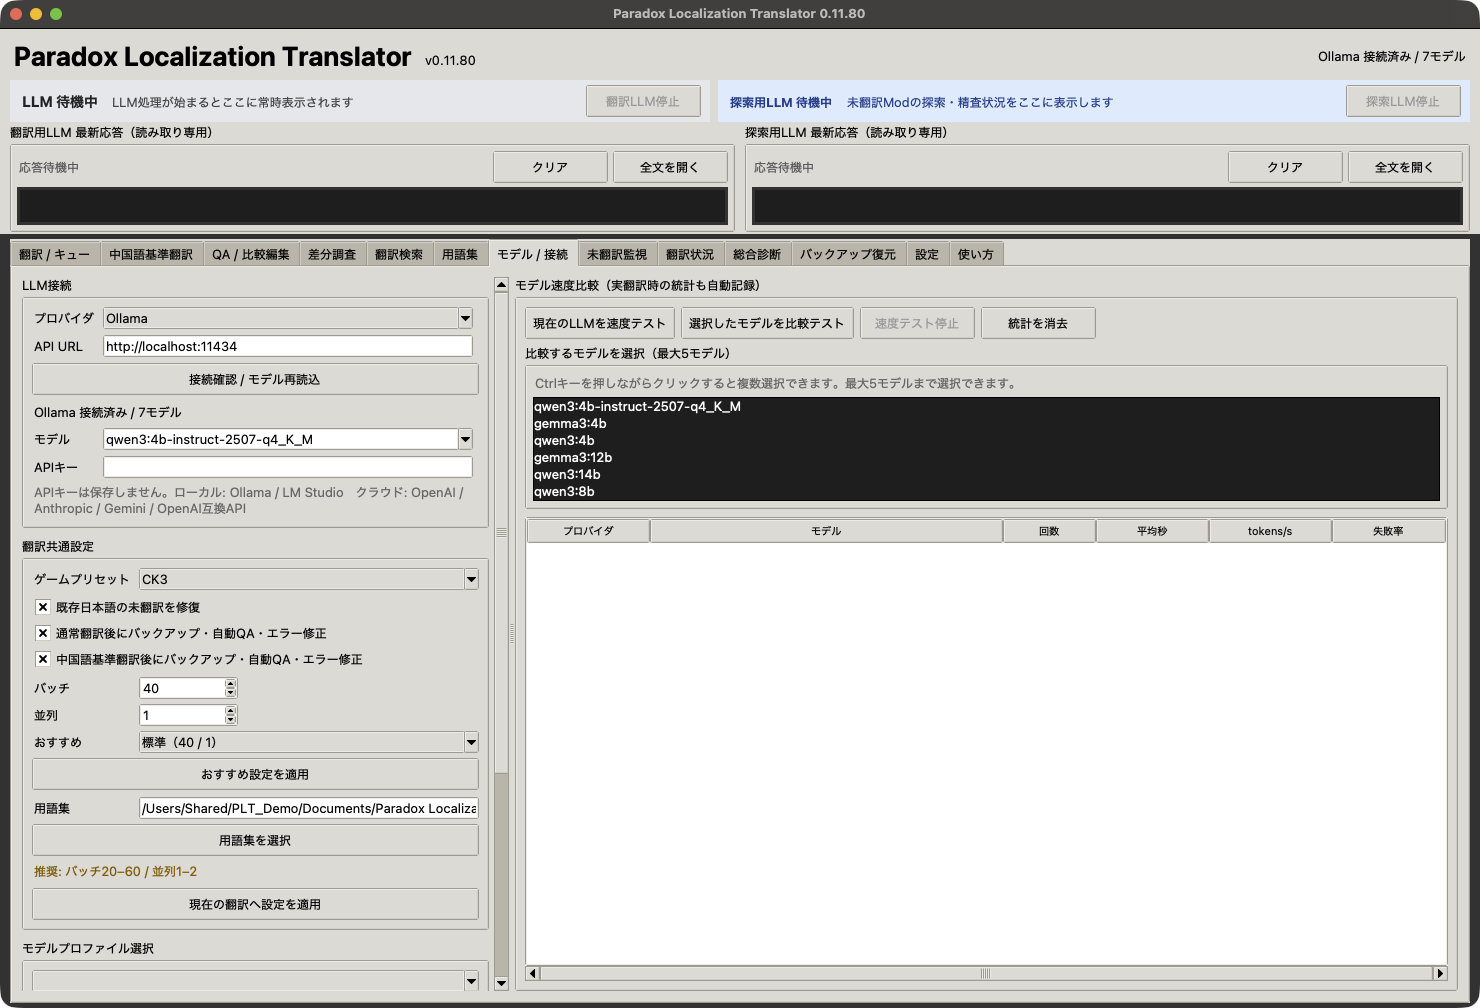
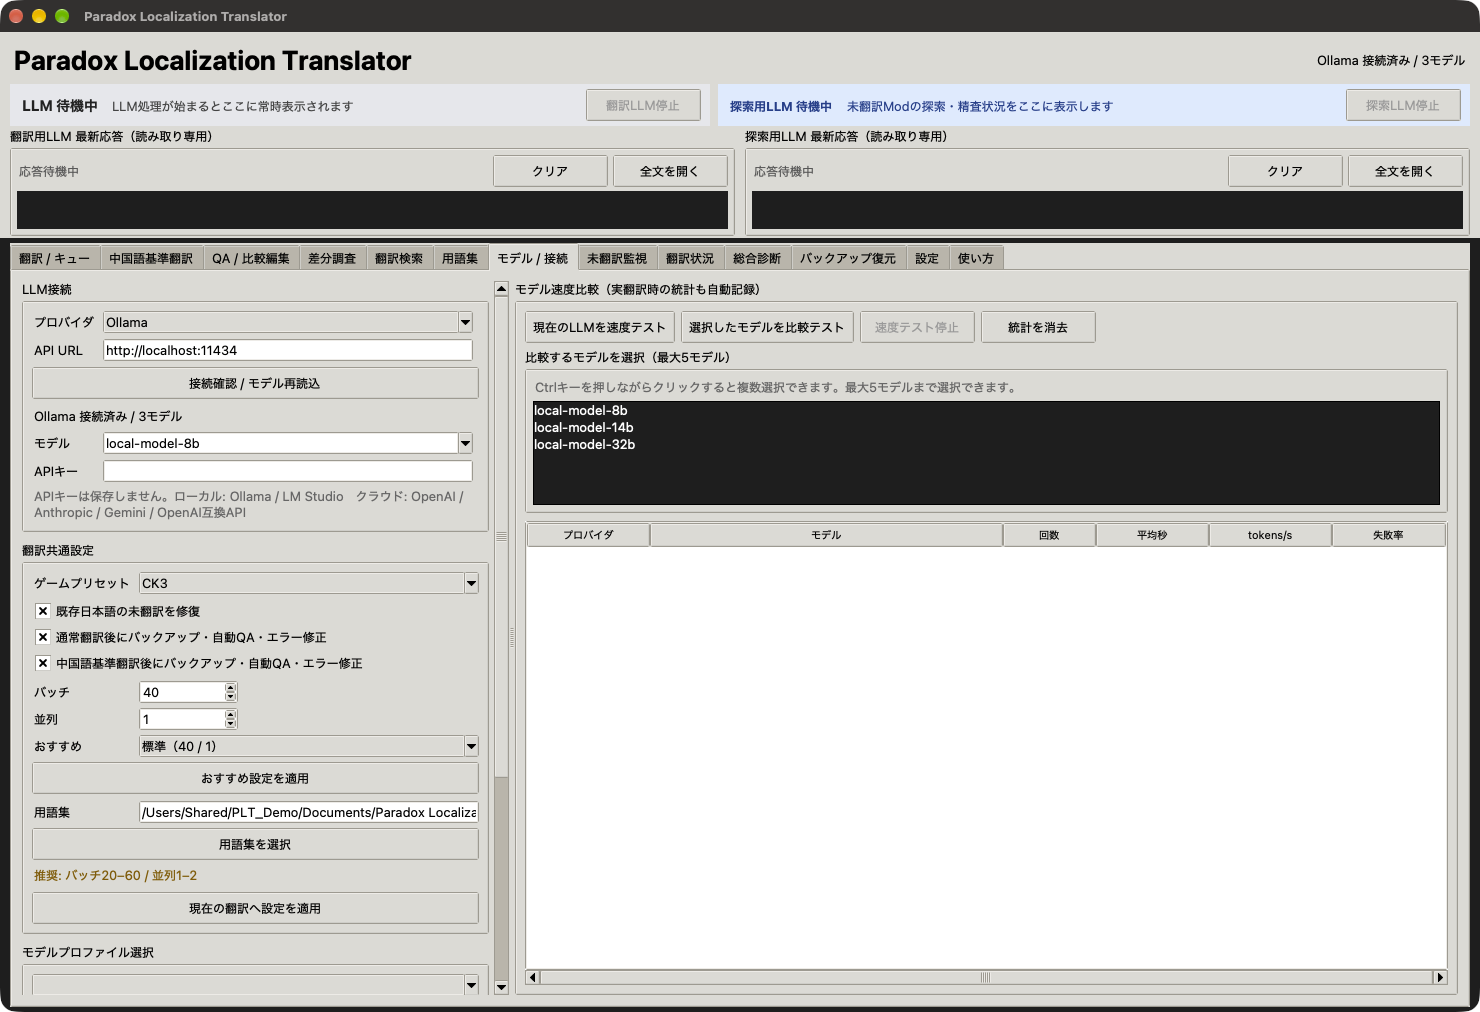
Retake the screenshots with v0.12.0; fix the demo line translations
- Screenshots from v0.12.0 in the isolated sample setup, with drag and drop
  available (.venv-build), made-up model names, and no version number.
- Demo line: German Kampfgeschick, Spanish Destreza, Korean 기량,
  Polish Waleczności, matching the installed CK3 skill names (GPT review).
- shoot.py: pick the app's main window even when it is off screen, take
  the queue picture last, hide version labels, fake model list.

diff --git a/index.html b/index.html
@@ -85,7 +85,7 @@
 <section id="shots" class="band">
   <h2>Screenshots</h2>
   <p class="intro">The app&#x27;s interface is currently in Japanese; an English UI is planned.</p>
-  <div class="shots"><figure class="shot"><button type="button" class="zoom" data-full="assets/shots/ja/translate.png"><img src="assets/shots/ja/translate.png" alt="Translation queue and progress" width="1480" height="1008" loading="lazy"></button><figcaption>Translation queue and progress</figcaption></figure><figure class="shot"><button type="button" class="zoom" data-full="assets/shots/ja/qa.png"><img src="assets/shots/ja/qa.png" alt="Side-by-side QA and editing" width="1480" height="1008" loading="lazy"></button><figcaption>Side-by-side QA and editing</figcaption></figure><figure class="shot"><button type="button" class="zoom" data-full="assets/shots/ja/survey.png"><img src="assets/shots/ja/survey.png" alt="Mod translation status survey (Japanese only)" width="1480" height="1008" loading="lazy"></button><figcaption>Mod translation status survey (Japanese only)</figcaption></figure><figure class="shot"><button type="button" class="zoom" data-full="assets/shots/ja/model.png"><img src="assets/shots/ja/model.png" alt="Model and connection settings" width="1480" height="1008" loading="lazy"></button><figcaption>Model and connection settings</figcaption></figure></div>
+  <div class="shots"><figure class="shot"><button type="button" class="zoom" data-full="assets/shots/ja/translate.png"><img src="assets/shots/ja/translate.png" alt="Translation queue and progress" width="1480" height="1012" loading="lazy"></button><figcaption>Translation queue and progress</figcaption></figure><figure class="shot"><button type="button" class="zoom" data-full="assets/shots/ja/qa.png"><img src="assets/shots/ja/qa.png" alt="Side-by-side QA and editing" width="1480" height="1012" loading="lazy"></button><figcaption>Side-by-side QA and editing</figcaption></figure><figure class="shot"><button type="button" class="zoom" data-full="assets/shots/ja/survey.png"><img src="assets/shots/ja/survey.png" alt="Mod translation status survey (Japanese only)" width="1480" height="1012" loading="lazy"></button><figcaption>Mod translation status survey (Japanese only)</figcaption></figure><figure class="shot"><button type="button" class="zoom" data-full="assets/shots/ja/model.png"><img src="assets/shots/ja/model.png" alt="Model and connection settings" width="1480" height="1012" loading="lazy"></button><figcaption>Model and connection settings</figcaption></figure></div>
 </section>
 
 <section id="games" class="band">
@@ -133,7 +133,7 @@
 
 <div class="lightbox" id="lightbox" hidden><img alt=""></div>
 
-<script>window.PLT = {"here": "en", "langs": [{"tag": "en", "href": "", "text": "This page is also available in English."}, {"tag": "ja", "href": "ja/", "text": "このページは日本語でも読めます。"}], "demo": [["l_japanese", "<span class=\"tok\">[ROOT.Char.GetFirstName]<\/span>は何も恐れない。<span class=\"tok\">§Y<\/span>武勇 +2<span class=\"tok\">§!<\/span>"], ["l_french", "<span class=\"tok\">[ROOT.Char.GetFirstName]<\/span> ne craint rien. <span class=\"tok\">§Y<\/span>+2 en Prouesse<span class=\"tok\">§!<\/span>"], ["l_german", "<span class=\"tok\">[ROOT.Char.GetFirstName]<\/span> fürchtet nichts. <span class=\"tok\">§Y<\/span>+2 Kampfkraft<span class=\"tok\">§!<\/span>"], ["l_spanish", "<span class=\"tok\">[ROOT.Char.GetFirstName]<\/span> no teme a nada. <span class=\"tok\">§Y<\/span>+2 de Proeza<span class=\"tok\">§!<\/span>"], ["l_korean", "<span class=\"tok\">[ROOT.Char.GetFirstName]<\/span>은(는) 아무것도 두려워하지 않습니다. <span class=\"tok\">§Y<\/span>무용 +2<span class=\"tok\">§!<\/span>"], ["l_polish", "<span class=\"tok\">[ROOT.Char.GetFirstName]<\/span> niczego się nie boi. <span class=\"tok\">§Y<\/span>+2 do Sprawności<span class=\"tok\">§!<\/span>"], ["l_braz_por", "<span class=\"tok\">[ROOT.Char.GetFirstName]<\/span> não teme nada. <span class=\"tok\">§Y<\/span>+2 de Destreza<span class=\"tok\">§!<\/span>"], ["l_russian", "<span class=\"tok\">[ROOT.Char.GetFirstName]<\/span> ничего не боится. <span class=\"tok\">§Y<\/span>+2 к доблести<span class=\"tok\">§!<\/span>"], ["l_simp_chinese", "<span class=\"tok\">[ROOT.Char.GetFirstName]<\/span>无所畏惧。<span class=\"tok\">§Y<\/span>勇武 +2<span class=\"tok\">§!<\/span>"], ["l_turkish", "<span class=\"tok\">[ROOT.Char.GetFirstName]<\/span> hiçbir şeyden korkmaz. <span class=\"tok\">§Y<\/span>+2 Yiğitlik<span class=\"tok\">§!<\/span>"]]};</script>
+<script>window.PLT = {"here": "en", "langs": [{"tag": "en", "href": "", "text": "This page is also available in English."}, {"tag": "ja", "href": "ja/", "text": "このページは日本語でも読めます。"}], "demo": [["l_japanese", "<span class=\"tok\">[ROOT.Char.GetFirstName]<\/span>は何も恐れない。<span class=\"tok\">§Y<\/span>武勇 +2<span class=\"tok\">§!<\/span>"], ["l_french", "<span class=\"tok\">[ROOT.Char.GetFirstName]<\/span> ne craint rien. <span class=\"tok\">§Y<\/span>+2 en Prouesse<span class=\"tok\">§!<\/span>"], ["l_german", "<span class=\"tok\">[ROOT.Char.GetFirstName]<\/span> fürchtet nichts. <span class=\"tok\">§Y<\/span>+2 Kampfgeschick<span class=\"tok\">§!<\/span>"], ["l_spanish", "<span class=\"tok\">[ROOT.Char.GetFirstName]<\/span> no teme a nada. <span class=\"tok\">§Y<\/span>+2 de Destreza<span class=\"tok\">§!<\/span>"], ["l_korean", "<span class=\"tok\">[ROOT.Char.GetFirstName]<\/span>은(는) 아무것도 두려워하지 않는다. <span class=\"tok\">§Y<\/span>기량 +2<span class=\"tok\">§!<\/span>"], ["l_polish", "<span class=\"tok\">[ROOT.Char.GetFirstName]<\/span> niczego się nie boi. <span class=\"tok\">§Y<\/span>+2 do Waleczności<span class=\"tok\">§!<\/span>"], ["l_braz_por", "<span class=\"tok\">[ROOT.Char.GetFirstName]<\/span> não teme nada. <span class=\"tok\">§Y<\/span>+2 de Destreza<span class=\"tok\">§!<\/span>"], ["l_russian", "<span class=\"tok\">[ROOT.Char.GetFirstName]<\/span> ничего не боится. <span class=\"tok\">§Y<\/span>+2 к доблести<span class=\"tok\">§!<\/span>"], ["l_simp_chinese", "<span class=\"tok\">[ROOT.Char.GetFirstName]<\/span>无所畏惧。<span class=\"tok\">§Y<\/span>勇武 +2<span class=\"tok\">§!<\/span>"], ["l_turkish", "<span class=\"tok\">[ROOT.Char.GetFirstName]<\/span> hiçbir şeyden korkmaz. <span class=\"tok\">§Y<\/span>+2 Yiğitlik<span class=\"tok\">§!<\/span>"]]};</script>
 <script src="assets/site.js" defer></script>
 </body>
 </html>

diff --git a/ja/index.html b/ja/index.html
@@ -85,7 +85,7 @@
 <section id="shots" class="band">
   <h2>画面</h2>
   
-  <div class="shots"><figure class="shot"><button type="button" class="zoom" data-full="../assets/shots/ja/translate.png"><img src="../assets/shots/ja/translate.png" alt="翻訳の順番待ちと進み具合" width="1480" height="1008" loading="lazy"></button><figcaption>翻訳の順番待ちと進み具合</figcaption></figure><figure class="shot"><button type="button" class="zoom" data-full="../assets/shots/ja/qa.png"><img src="../assets/shots/ja/qa.png" alt="原文と訳文を並べた QA・編集" width="1480" height="1008" loading="lazy"></button><figcaption>原文と訳文を並べた QA・編集</figcaption></figure><figure class="shot"><button type="button" class="zoom" data-full="../assets/shots/ja/survey.png"><img src="../assets/shots/ja/survey.png" alt="Mod の翻訳状況の調査" width="1480" height="1008" loading="lazy"></button><figcaption>Mod の翻訳状況の調査</figcaption></figure><figure class="shot"><button type="button" class="zoom" data-full="../assets/shots/ja/model.png"><img src="../assets/shots/ja/model.png" alt="モデルと接続の設定" width="1480" height="1008" loading="lazy"></button><figcaption>モデルと接続の設定</figcaption></figure></div>
+  <div class="shots"><figure class="shot"><button type="button" class="zoom" data-full="../assets/shots/ja/translate.png"><img src="../assets/shots/ja/translate.png" alt="翻訳の順番待ちと進み具合" width="1480" height="1012" loading="lazy"></button><figcaption>翻訳の順番待ちと進み具合</figcaption></figure><figure class="shot"><button type="button" class="zoom" data-full="../assets/shots/ja/qa.png"><img src="../assets/shots/ja/qa.png" alt="原文と訳文を並べた QA・編集" width="1480" height="1012" loading="lazy"></button><figcaption>原文と訳文を並べた QA・編集</figcaption></figure><figure class="shot"><button type="button" class="zoom" data-full="../assets/shots/ja/survey.png"><img src="../assets/shots/ja/survey.png" alt="Mod の翻訳状況の調査" width="1480" height="1012" loading="lazy"></button><figcaption>Mod の翻訳状況の調査</figcaption></figure><figure class="shot"><button type="button" class="zoom" data-full="../assets/shots/ja/model.png"><img src="../assets/shots/ja/model.png" alt="モデルと接続の設定" width="1480" height="1012" loading="lazy"></button><figcaption>モデルと接続の設定</figcaption></figure></div>
 </section>
 
 <section id="games" class="band">
@@ -133,7 +133,7 @@
 
 <div class="lightbox" id="lightbox" hidden><img alt=""></div>
 
-<script>window.PLT = {"here": "ja", "langs": [{"tag": "en", "href": "../", "text": "This page is also available in English."}, {"tag": "ja", "href": "../ja/", "text": "このページは日本語でも読めます。"}], "demo": [["l_japanese", "<span class=\"tok\">[ROOT.Char.GetFirstName]<\/span>は何も恐れない。<span class=\"tok\">§Y<\/span>武勇 +2<span class=\"tok\">§!<\/span>"], ["l_french", "<span class=\"tok\">[ROOT.Char.GetFirstName]<\/span> ne craint rien. <span class=\"tok\">§Y<\/span>+2 en Prouesse<span class=\"tok\">§!<\/span>"], ["l_german", "<span class=\"tok\">[ROOT.Char.GetFirstName]<\/span> fürchtet nichts. <span class=\"tok\">§Y<\/span>+2 Kampfkraft<span class=\"tok\">§!<\/span>"], ["l_spanish", "<span class=\"tok\">[ROOT.Char.GetFirstName]<\/span> no teme a nada. <span class=\"tok\">§Y<\/span>+2 de Proeza<span class=\"tok\">§!<\/span>"], ["l_korean", "<span class=\"tok\">[ROOT.Char.GetFirstName]<\/span>은(는) 아무것도 두려워하지 않습니다. <span class=\"tok\">§Y<\/span>무용 +2<span class=\"tok\">§!<\/span>"], ["l_polish", "<span class=\"tok\">[ROOT.Char.GetFirstName]<\/span> niczego się nie boi. <span class=\"tok\">§Y<\/span>+2 do Sprawności<span class=\"tok\">§!<\/span>"], ["l_braz_por", "<span class=\"tok\">[ROOT.Char.GetFirstName]<\/span> não teme nada. <span class=\"tok\">§Y<\/span>+2 de Destreza<span class=\"tok\">§!<\/span>"], ["l_russian", "<span class=\"tok\">[ROOT.Char.GetFirstName]<\/span> ничего не боится. <span class=\"tok\">§Y<\/span>+2 к доблести<span class=\"tok\">§!<\/span>"], ["l_simp_chinese", "<span class=\"tok\">[ROOT.Char.GetFirstName]<\/span>无所畏惧。<span class=\"tok\">§Y<\/span>勇武 +2<span class=\"tok\">§!<\/span>"], ["l_turkish", "<span class=\"tok\">[ROOT.Char.GetFirstName]<\/span> hiçbir şeyden korkmaz. <span class=\"tok\">§Y<\/span>+2 Yiğitlik<span class=\"tok\">§!<\/span>"]]};</script>
+<script>window.PLT = {"here": "ja", "langs": [{"tag": "en", "href": "../", "text": "This page is also available in English."}, {"tag": "ja", "href": "../ja/", "text": "このページは日本語でも読めます。"}], "demo": [["l_japanese", "<span class=\"tok\">[ROOT.Char.GetFirstName]<\/span>は何も恐れない。<span class=\"tok\">§Y<\/span>武勇 +2<span class=\"tok\">§!<\/span>"], ["l_french", "<span class=\"tok\">[ROOT.Char.GetFirstName]<\/span> ne craint rien. <span class=\"tok\">§Y<\/span>+2 en Prouesse<span class=\"tok\">§!<\/span>"], ["l_german", "<span class=\"tok\">[ROOT.Char.GetFirstName]<\/span> fürchtet nichts. <span class=\"tok\">§Y<\/span>+2 Kampfgeschick<span class=\"tok\">§!<\/span>"], ["l_spanish", "<span class=\"tok\">[ROOT.Char.GetFirstName]<\/span> no teme a nada. <span class=\"tok\">§Y<\/span>+2 de Destreza<span class=\"tok\">§!<\/span>"], ["l_korean", "<span class=\"tok\">[ROOT.Char.GetFirstName]<\/span>은(는) 아무것도 두려워하지 않는다. <span class=\"tok\">§Y<\/span>기량 +2<span class=\"tok\">§!<\/span>"], ["l_polish", "<span class=\"tok\">[ROOT.Char.GetFirstName]<\/span> niczego się nie boi. <span class=\"tok\">§Y<\/span>+2 do Waleczności<span class=\"tok\">§!<\/span>"], ["l_braz_por", "<span class=\"tok\">[ROOT.Char.GetFirstName]<\/span> não teme nada. <span class=\"tok\">§Y<\/span>+2 de Destreza<span class=\"tok\">§!<\/span>"], ["l_russian", "<span class=\"tok\">[ROOT.Char.GetFirstName]<\/span> ничего не боится. <span class=\"tok\">§Y<\/span>+2 к доблести<span class=\"tok\">§!<\/span>"], ["l_simp_chinese", "<span class=\"tok\">[ROOT.Char.GetFirstName]<\/span>无所畏惧。<span class=\"tok\">§Y<\/span>勇武 +2<span class=\"tok\">§!<\/span>"], ["l_turkish", "<span class=\"tok\">[ROOT.Char.GetFirstName]<\/span> hiçbir şeyden korkmaz. <span class=\"tok\">§Y<\/span>+2 Yiğitlik<span class=\"tok\">§!<\/span>"]]};</script>
 <script src="../assets/site.js" defer></script>
 </body>
 </html>

diff --git a/tools/screenshots/win.swift b/tools/screenshots/win.swift
@@ -1,6 +1,6 @@
 import CoreGraphics
 let pid = Int(CommandLine.arguments[1])!
-let list = CGWindowListCopyWindowInfo([.optionOnScreenOnly], kCGNullWindowID) as! [[String: Any]]
+let list = CGWindowListCopyWindowInfo([.optionAll, .excludeDesktopElements], kCGNullWindowID) as! [[String: Any]]
 for w in list where (w[kCGWindowOwnerPID as String] as? Int) == pid {
   let b = w[kCGWindowBounds as String] as! [String: Any]
   print(w[kCGWindowNumber as String]!, w[kCGWindowLayer as String]!, b["Width"]!, b["Height"]!, w[kCGWindowName as String] ?? "")

diff --git a/tools/screenshots/shoot.py b/tools/screenshots/shoot.py
@@ -3,14 +3,30 @@ src = pathlib.Path(sys.argv[1]); out = pathlib.Path(sys.argv[2]); tools = pathli
 sys.path.insert(0, str(src))
 import translator_core
 translator_core._mounted_volume_roots = lambda *a, **k: []
+# Never show the real local LLM setup: answer every model list with made-up names.
+FAKE_MODELS = ["local-model-8b", "local-model-14b", "local-model-32b"]
+translator_core.list_models = lambda *a, **k: list(FAKE_MODELS)
+translator_core.unusable_model_warning = lambda *a, **k: ""
 import tkinter as tk
 from tkinter import ttk
 _orig_mainloop = tk.Misc.mainloop
 MOD = pathlib.Path.home() / "Documents/Paradox Interactive/Victoria 3/mod/Example Trade Reforms"
 
 def winid():
-    r = subprocess.run([str(tools / "win"), str(os.getpid())], capture_output=True, text=True).stdout.split()
-    return r[0] if r else None
+    # The main window is the one on layer 0; the list can be empty for a moment, so retry.
+    for _ in range(10):
+        rows = subprocess.run([str(tools / "win"), str(os.getpid())], capture_output=True, text=True).stdout.splitlines()
+        best = None
+        for row in rows:
+            parts = row.split(maxsplit=4)  # id layer width height title
+            if len(parts) == 5 and parts[1] == "0" and parts[4].startswith("Paradox Localization Translator"):
+                area = float(parts[2]) * float(parts[3])
+                if best is None or area > best[0]:
+                    best = (area, parts[0])
+        if best:
+            return best[1]
+        time.sleep(0.5)
+    raise RuntimeError("app window not found")
 
 def cap(app, name):
     app.update(); time.sleep(0.4); app.update()
@@ -32,8 +48,20 @@ def buttons(frame):
             pass
     return res
 
+def hide_version(app):
+    """Keep version numbers off the pictures (the site does not show versions)."""
+    import re
+    app.title("Paradox Localization Translator")
+    for w in walk(app):
+        try:
+            if w.winfo_class() in ("TLabel", "Label") and re.fullmatch(r"v?\d+\.\d+\.\d+", str(w.cget("text"))):
+                w.configure(text="")
+        except Exception:
+            pass
+
 def run(app):
     nb = app.notebook
+    app.after(500, lambda: hide_version(app))
     def click(tab, label):
         for t, w in buttons(getattr(app, tab)):
             if t == label:
@@ -42,21 +70,22 @@ def run(app):
     def entries(tab):
         return [w for w in walk(getattr(app, tab)) if w.winfo_class() in ("TEntry", "Entry")]
     def s0():
-        app._append_queue(MOD); nb.select(app.tab_translate); cap(app, "translate")
-        nb.select(app.tab_models); cap(app, "model")
+        app._append_queue(MOD)
     app.after(1500, s0)
+    def s0b(): nb.select(app.tab_models); app.after(1500, lambda: cap(app, "model"))
+    app.after(4000, s0b)
     def s1():
         nb.select(app.tab_status); click("tab_status", "ゲーム/Mod場所を自動検出")
-    app.after(3000, s1)
+    app.after(7000, s1)
     def s2(): click("tab_status", "選択した場所のModを調査")
-    app.after(6000, s2)
+    app.after(9000, s2)
     def s3():
         nb.select(app.tab_status)
         for w in walk(app.tab_status):
             if w.winfo_class() == "Treeview" and len(w.get_children()) == 2 and "Example" in str(w.item(w.get_children()[0], "values")):
                 first = w.get_children()[0]; w.selection_set(first); w.focus(first); w.event_generate("<<TreeviewSelect>>")
         app.after(1500, lambda: cap(app, "survey"))
-    app.after(16000, s3)
+    app.after(19000, s3)
     def s4():
         nb.select(app.tab_review)
         es = entries("tab_review"); print("entries", len(es), flush=True)
@@ -67,9 +96,12 @@ def run(app):
             app.review_src_display_var.set(str(src_f)); app.review_dst_display_var.set(str(ja_f))
         except Exception: pass
         click("tab_review", "比較を読み込む")
-    app.after(18000, s4)
+    app.after(22000, s4)
     def s5(): nb.select(app.tab_review); cap(app, "qa")
-    app.after(24000, s5)
+    app.after(28000, s5)
+    # The window can still be settling right after start-up, so the queue picture is taken last.
+    def s6(): nb.select(app.tab_translate); app.after(1500, lambda: cap(app, "translate"))
+    app.after(30000, s6)
 
 def mainloop(self, n=0):
     if not getattr(mainloop, "done", False):

diff --git a/tools/screenshots/make_sample.py b/tools/screenshots/make_sample.py
@@ -30,7 +30,7 @@ for i in range(140):
     en += [f' {k}:0 "{words[i % 10]} {i // 10 + 1}"',
            f' {k}_desc:0 "Increases trade route capacity in [SCOPE.sState(\'state\').GetName] by §Y+{i % 5 + 1}§!."']
     if i < 118:  # leave the last 22 items (44 keys) untranslated
-        jp += [f' {k}:0 "{ja[i % 10]} {i // 10 + 1}"',
+        jp += [f' {k}:0 "{ja[i % 10]}（{i // 10 + 1}）"',
                f' {k}_desc:0 "[SCOPE.sState(\'state\').GetName]の交易路の容量が§Y+{i % 5 + 1}§!増える。"']
 
 

diff --git a/tools/screenshots/README.md b/tools/screenshots/README.md
@@ -5,12 +5,13 @@ Taken from the app running in an isolated HOME with a made-up sample mod — nev
 ```
 D=/Users/Shared/PLT_Demo
 python3 make_sample.py $D
-cp -R <repo>/app $D/src                      # a copy, so no data beside the repo is picked up
+mkdir -p $D/src && git -C <repo> archive <tag> app | tar -x -C $D/src   # a copy, so no data beside the repo is picked up
 swiftc -O win.swift -o win                   # finds the app window id for screencapture
-HOME=$D <repo>/.venv/bin/python -I shoot.py $D/src $OUT
+HOME=$D <repo>/.venv-build/bin/python -I shoot.py $D/src/app $OUT   # .venv-build has tkinterdnd2
 rm -rf $D
 ```
 
-`shoot.py` turns off the scan of external volumes, then drives the tabs on a timer and saves
+`shoot.py` turns off the scan of external volumes, answers every model list with made-up names
+(the author's real models must not appear), hides the version number, then drives the tabs on a timer and saves
 translate / model / survey / qa as PNG into `$OUT`.
 Copy them to `assets/shots/<lang>/` (or `assets/shots/` for the shared English ones) and run `build.py`.
